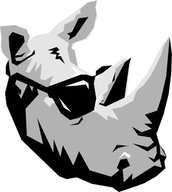
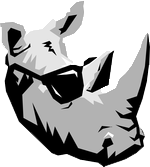
Fixed levelbuilder main menu, added image

diff --git a/src/Boundary/LevelBuilderMainMenuPanel.java b/src/Boundary/LevelBuilderMainMenuPanel.java
@@ -7,6 +7,7 @@ import java.awt.Color;
 import javax.swing.border.EmptyBorder;
 import javax.swing.GroupLayout;
 import javax.swing.GroupLayout.Alignment;
+import javax.swing.ImageIcon;
 import javax.swing.JLabel;
 
 import java.awt.Font;
@@ -44,32 +45,42 @@ public class LevelBuilderMainMenuPanel extends JPanel {
 		JLabel label_1 = new JLabel("Designed By: Nan Zhang, Barry Wolfson, Giovanni Aguila, Paul-Henry Schoehagen, Erik Sola");
 		label_1.setHorizontalAlignment(SwingConstants.CENTER);
 		label_1.setFont(new Font("Comic Sans MS", Font.PLAIN, 13));
+		
+		JLabel lblNewLabel = new JLabel("");
+		lblNewLabel.setIcon(new ImageIcon("Image/hammer.png"));
 		GroupLayout groupLayout = new GroupLayout(this);
 		groupLayout.setHorizontalGroup(
-			groupLayout.createParallelGroup(Alignment.LEADING)
-				.addGroup(Alignment.TRAILING, groupLayout.createSequentialGroup()
-					.addContainerGap(116, Short.MAX_VALUE)
-					.addGroup(groupLayout.createParallelGroup(Alignment.LEADING)
-						.addGroup(groupLayout.createSequentialGroup()
-							.addGap(136)
-							.addComponent(button)
-							.addGap(18)
-							.addComponent(button_1)
-							.addGap(18)
-							.addComponent(button_2))
-						.addComponent(label_1))
-					.addGap(87))
+			groupLayout.createParallelGroup(Alignment.TRAILING)
 				.addGroup(groupLayout.createSequentialGroup()
-					.addGap(285)
-					.addComponent(label)
-					.addContainerGap(304, Short.MAX_VALUE))
+					.addContainerGap(170, Short.MAX_VALUE)
+					.addGroup(groupLayout.createParallelGroup(Alignment.LEADING)
+						.addGroup(groupLayout.createParallelGroup(Alignment.TRAILING)
+							.addGroup(groupLayout.createSequentialGroup()
+								.addGroup(groupLayout.createParallelGroup(Alignment.LEADING)
+									.addGroup(groupLayout.createSequentialGroup()
+										.addGap(136)
+										.addComponent(button)
+										.addGap(18)
+										.addComponent(button_1)
+										.addGap(18)
+										.addComponent(button_2))
+									.addComponent(label_1))
+								.addGap(87))
+							.addGroup(groupLayout.createSequentialGroup()
+								.addComponent(label)
+								.addGap(299)))
+						.addGroup(Alignment.TRAILING, groupLayout.createSequentialGroup()
+							.addComponent(lblNewLabel, GroupLayout.PREFERRED_SIZE, 269, GroupLayout.PREFERRED_SIZE)
+							.addGap(179))))
 		);
 		groupLayout.setVerticalGroup(
-			groupLayout.createParallelGroup(Alignment.LEADING)
-				.addGroup(Alignment.TRAILING, groupLayout.createSequentialGroup()
-					.addGap(31)
+			groupLayout.createParallelGroup(Alignment.TRAILING)
+				.addGroup(groupLayout.createSequentialGroup()
+					.addGap(30)
 					.addComponent(label)
-					.addPreferredGap(ComponentPlacement.RELATED, 314, Short.MAX_VALUE)
+					.addGap(44)
+					.addComponent(lblNewLabel, GroupLayout.PREFERRED_SIZE, 229, GroupLayout.PREFERRED_SIZE)
+					.addPreferredGap(ComponentPlacement.RELATED, 71, Short.MAX_VALUE)
 					.addGroup(groupLayout.createParallelGroup(Alignment.BASELINE)
 						.addComponent(button_1)
 						.addComponent(button)
@@ -84,6 +95,4 @@ public class LevelBuilderMainMenuPanel extends JPanel {
 		lightning.addActionListener(new SwitchWindowController(mainFrame, new LevelBuilderLightningPanel(frame)));
 		release.addActionListener(new SwitchWindowController(mainFrame, new LevelBuilderReleasePanel(frame)));
 	}
-
-
 }

diff --git a/src/Boundary/MainMenuPanel.java b/src/Boundary/MainMenuPanel.java
@@ -60,47 +60,47 @@ public class MainMenuPanel extends JPanel {
 		DesignedBy.setHorizontalAlignment(SwingConstants.CENTER);
 		DesignedBy.setFont(new Font("Comic Sans MS", Font.PLAIN, 13));
 		
-		JLabel lblNewLabel = new JLabel("New label");
+		JLabel lblNewLabel = new JLabel("");
 		lblNewLabel.setIcon(new ImageIcon("Image/rsz_1rsz_1rsz_1rhino.png"));
 		GroupLayout gl_panel = new GroupLayout(panel);
 		gl_panel.setHorizontalGroup(
 			gl_panel.createParallelGroup(Alignment.TRAILING)
 				.addGroup(gl_panel.createSequentialGroup()
+					.addContainerGap()
+					.addComponent(Title, GroupLayout.PREFERRED_SIZE, 727, GroupLayout.PREFERRED_SIZE)
+					.addContainerGap(18, Short.MAX_VALUE))
+				.addGroup(gl_panel.createSequentialGroup()
+					.addContainerGap(291, Short.MAX_VALUE)
+					.addComponent(lblNewLabel, GroupLayout.PREFERRED_SIZE, 176, GroupLayout.PREFERRED_SIZE)
+					.addGap(290))
+				.addGroup(Alignment.LEADING, gl_panel.createSequentialGroup()
+					.addContainerGap()
 					.addGroup(gl_panel.createParallelGroup(Alignment.LEADING)
 						.addGroup(gl_panel.createSequentialGroup()
-							.addContainerGap()
-							.addComponent(Title, GroupLayout.PREFERRED_SIZE, 727, GroupLayout.PREFERRED_SIZE))
-						.addGroup(gl_panel.createSequentialGroup()
-							.addGap(226)
+							.addGap(214)
 							.addComponent(BuiltLevelsButton)
 							.addPreferredGap(ComponentPlacement.RELATED)
 							.addComponent(RulesButton, GroupLayout.PREFERRED_SIZE, 96, GroupLayout.PREFERRED_SIZE)
 							.addPreferredGap(ComponentPlacement.RELATED)
 							.addComponent(DefaultLevelsButton))
-						.addGroup(gl_panel.createSequentialGroup()
-							.addContainerGap()
-							.addComponent(DesignedBy, GroupLayout.PREFERRED_SIZE, 713, GroupLayout.PREFERRED_SIZE)))
-					.addContainerGap(18, Short.MAX_VALUE))
-				.addGroup(gl_panel.createSequentialGroup()
-					.addContainerGap(290, Short.MAX_VALUE)
-					.addComponent(lblNewLabel, GroupLayout.PREFERRED_SIZE, 176, GroupLayout.PREFERRED_SIZE)
-					.addGap(285))
+						.addComponent(DesignedBy, GroupLayout.PREFERRED_SIZE, 713, GroupLayout.PREFERRED_SIZE))
+					.addContainerGap(32, Short.MAX_VALUE))
 		);
 		gl_panel.setVerticalGroup(
 			gl_panel.createParallelGroup(Alignment.TRAILING)
 				.addGroup(gl_panel.createSequentialGroup()
 					.addContainerGap(39, Short.MAX_VALUE)
 					.addComponent(Title)
-					.addGap(75)
+					.addGap(18)
 					.addComponent(lblNewLabel, GroupLayout.PREFERRED_SIZE, 183, GroupLayout.PREFERRED_SIZE)
-					.addGap(139)
+					.addGap(26)
 					.addGroup(gl_panel.createParallelGroup(Alignment.BASELINE)
 						.addComponent(BuiltLevelsButton)
 						.addComponent(DefaultLevelsButton)
 						.addComponent(RulesButton))
 					.addPreferredGap(ComponentPlacement.RELATED)
 					.addComponent(DesignedBy, GroupLayout.PREFERRED_SIZE, 63, GroupLayout.PREFERRED_SIZE)
-					.addGap(37))
+					.addGap(207))
 		);
 		panel.setLayout(gl_panel);
 
